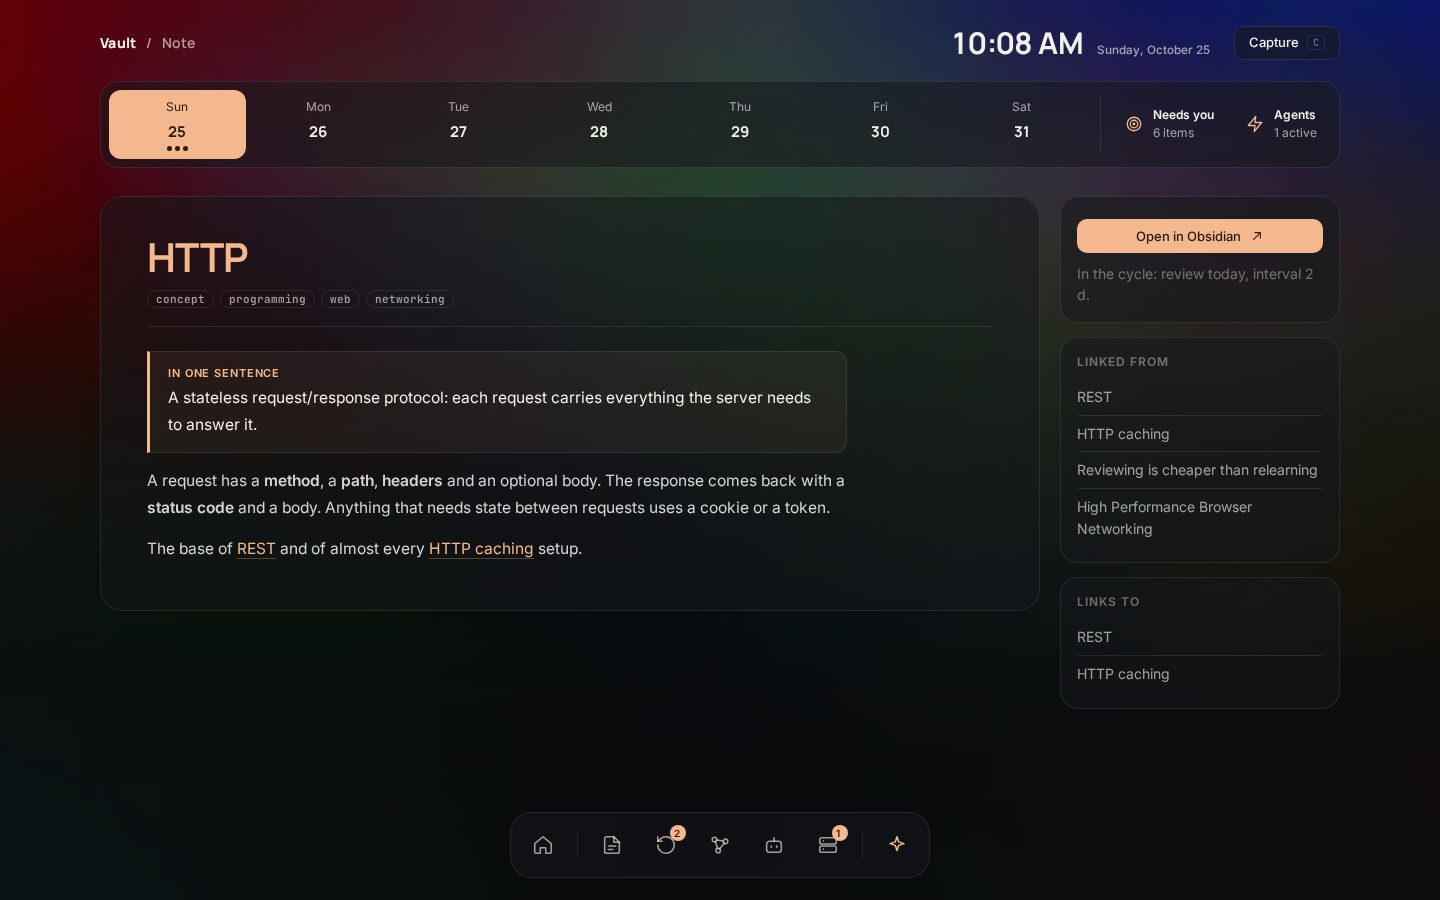
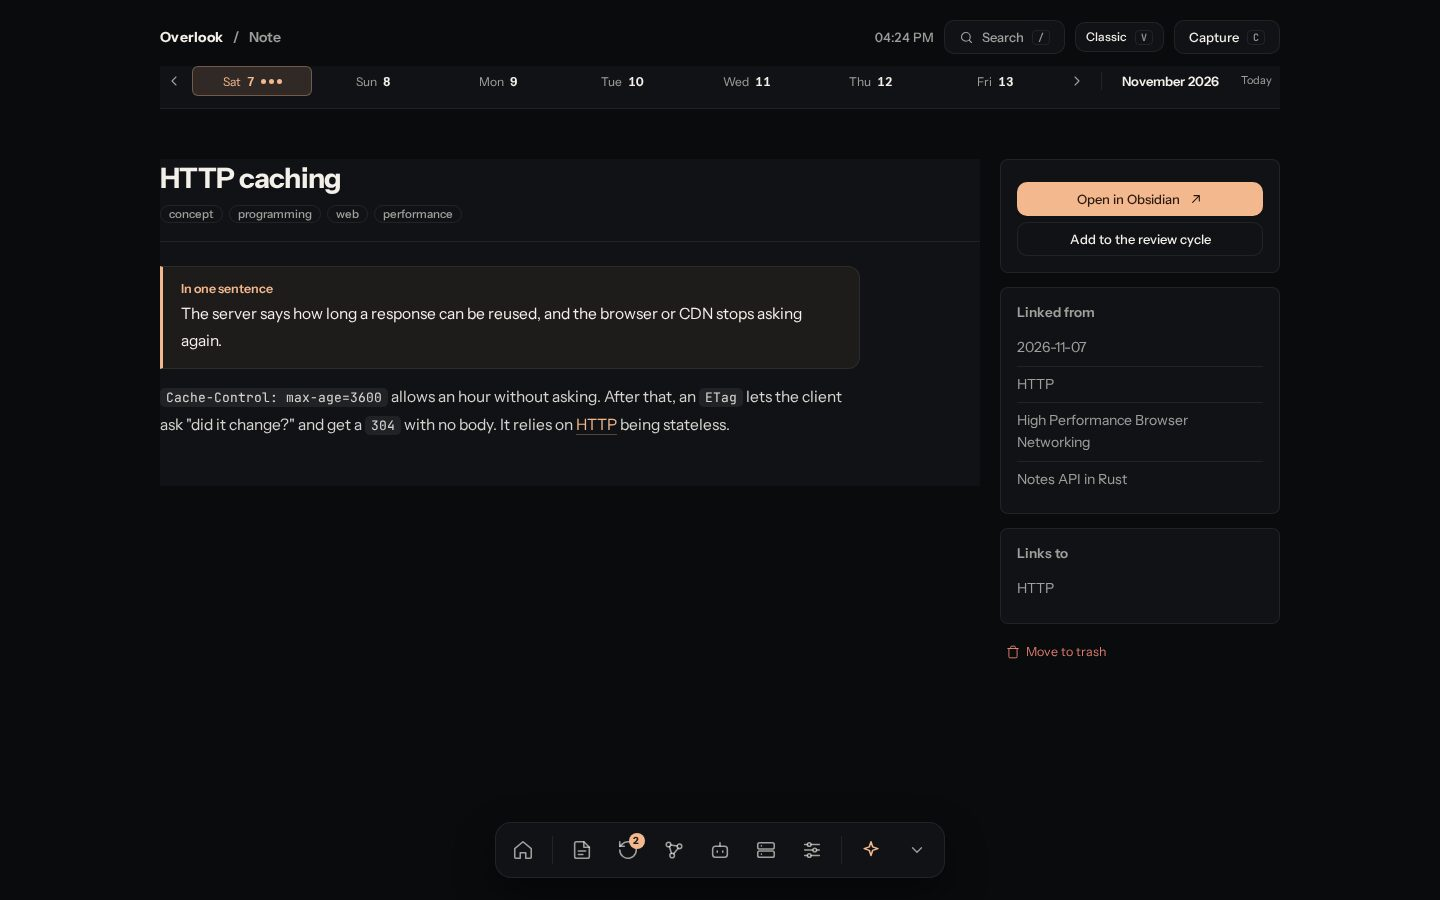
docs: a shorter README that matches today's Overlook, new screenshots (#39)
## What
- README rewritten short (247 → 139 lines): what Overlook is, quick
start, a one-line-per-feature list, the vault layout, one table of
config files, agents.json in two bullets, optional pieces in one line
each.
- New screenshots (Home, note reader, Agents canvas with two terminals)
taken on `example-vault/`; `calendar.jpg` removed (the strip shows on
the Home shot).
- The task-not-found page said tasks live in memory; they persist (last
50).

## Why
The README and screenshots predated three redesigns (#24, #31, #32) and
described a dashboard for Claude Code and AGY only.

Out-of-date facts fixed:
- Canvas terminals are xterm.js (#33), not Ghostty's terminal core.
- Tasks persist in `cache/tasks.json` (N24), not in memory.
- Routines need only an `AGENTS.md` (#36), not a Routines section.
- Quick start needs `bun install`: the terminal is served from
`node_modules`.

## How
Screenshots: a clean copy of the tracked files on port 3399, a throwaway
HOME (no real sessions in the Fleet), a neutral shell prompt, and a demo
daily note that is not committed.

## Tests
- `bun test`: 49/49.
- No console errors on Home, the note reader or the Agents page.

diff --git a/app.js b/app.js
@@ -2313,7 +2313,7 @@ async function taskPage(id) {
   const paint = async () => {
     if (route().pg !== "t" || route().arg !== id) return clearInterval(taskTimer);
     const t = await api(`/api/task?id=${encodeURIComponent(id)}`).catch(() => null);
-    if (!t) { main.innerHTML = `<div class="ph"><h1>Task not found</h1><p>Tasks live in memory and are gone after a restart.</p></div><a class="btn glass" href="#/agents">Back to Agents</a>`; return clearInterval(taskTimer); }
+    if (!t) { main.innerHTML = `<div class="ph"><h1>Task not found</h1><p>Overlook keeps the last 50 tasks; older ones are gone.</p></div><a class="btn glass" href="#/agents">Back to Agents</a>`; return clearInterval(taskTimer); }
     const qInfo = detectQuota(t);
     const qSig = qInfo ? `${qInfo.exhausted}|${qInfo.model}|${qInfo.resetsIn}` : "";
     const signature = `${t.end}|${t.events.length}|${t.events.at(-1)?.txt?.length || 0}|${qSig}`;

diff --git a/README.md b/README.md
@@ -1,62 +1,58 @@
 # Overlook
 
-A local dashboard for an Obsidian vault: today's focus, spaced review, notes, graph, quick capture,
-plus the coding agents (Claude Code, AGY) running on your machine. It reads your Markdown straight
-from disk. No database, no build step, no cloud.
+A local dashboard for an Obsidian vault, and a canvas for the coding agents you run on it. It reads your
+Markdown straight from disk: no database, no build step, no cloud.
 
 ![Home](docs/screenshots/home.jpg)
 
-| Note reader | Agents |
+| Note reader | Agents canvas |
 | --- | --- |
 | ![Note](docs/screenshots/note.jpg) | ![Agents](docs/screenshots/agents.jpg) |
 
 ## Quick start
 
-Needs [Bun](https://bun.sh) (tested on 1.4).
+Needs [Bun](https://bun.sh) 1.4+.
 
 ```sh
 git clone https://github.com/uKeps/overlook && cd overlook
 cp .env.example .env
+bun install
 bun server.ts
 ```
 
-Open http://127.0.0.1:3333. It starts on the bundled `example-vault/`, so you can look around first.
-When you like it, point `VAULT_DIR` in `.env` at your own vault and restart.
+Open http://127.0.0.1:3333. It starts on the bundled `example-vault/`. Point `VAULT_DIR` in `.env` at your own
+vault (or set it in **Settings**) and restart. Run it from the repo folder: Bun reads `.env` from there.
 
-Run it from the repo folder: Bun loads `.env` from the current directory.
+## What's in it
+
+- **Home**: today's focus from the daily note, notes due for review, the inbox, links to notes that don't exist yet.
+- **Calendar** strip: events from `Calendar.md` (`- 2026-11-03 14:00 · Exam`) and agent tasks scheduled to run
+  once or on a repeat.
+- **Notes**, a reader with backlinks, a graph, full-text search (`/`) and quick capture (`C`) into the daily note.
+- **Review**: spaced repetition from `review_on` / `interval` in the frontmatter.
+- **Agents**: give a task to any CLI or API agent and watch it run. On the canvas, every card is a window: real
+  terminals, agent TUIs (Claude Code, Antigravity), stickies and notes. Wire two terminal cards and the programs
+  in them can talk with `overlook peers`, `overlook send <card> "…"` and `overlook read <card>`. Ctrl+Alt+/
+  lists the shortcuts.
+- Themes (Tokyo Night, Dracula, Catppuccin, Rosé Pine, Gruvbox, Nord) and two interfaces, Classic and Minimal (`V`).
 
 ## Your vault
 
-By default Overlook expects this layout (the demo vault follows it; `vault.json`, below, changes it). Folders outside it are ignored, and missing
-ones just show up empty.
+The default layout, which the demo vault follows:
 
 | Path | Used for |
 | --- | --- |
-| `1 Inbox/` … `8 …/` | Notes. Any folder starting with a digit 1–8 and a space (`7 …` is skipped: drawings) |
-| `*.md` at the root | Notes too (a "start here" map, say), except agent instructions (`AGENTS.md`, `CLAUDE.md`, `GEMINI.md`, `README.md`) and `Calendar.md` |
-| `2 Daily/YYYY-MM-DD.md` | Daily note. `## Focus` feeds the Home carousel, captures land in `## Captured`; a checked item or a capture filed as `→ [[Note]]` leaves the Home |
-| `2 Daily/_Template.md` | Optional template for new daily notes |
-| `9 Agent/Log.md`, `Findings.md` | Optional agent log and gotchas (bullet lines) |
+| `1 Inbox/` … `8 …/` | Notes: folders starting with a digit 1–8 and a space (`7 …`, drawings, is skipped) |
+| `*.md` at the root | Notes too, except `AGENTS.md`, `CLAUDE.md`, `GEMINI.md`, `README.md` and `Calendar.md` |
+| `2 Daily/YYYY-MM-DD.md` | Daily note: `## Focus` feeds the Home, captures land in `## Captured` |
+| `9 Agent/Log.md`, `Findings.md` | Optional agent log and gotchas |
+| `AGENTS.md` | Optional instructions for agents; with it, the Morning and Inbox routines show up |
 
-Frontmatter Overlook reads, all optional:
+Frontmatter, all optional: `type` (concept, project, daily), `area`, `tags`, `review_on`, `interval`,
+`confidence`, `updated`. A `> [!abstract]` callout right after the title is the note's summary.
+`VAULT_LANG=pt` reads the Portuguese names instead (`2 Diário`, `## Foco de hoje`, `revisar_em`…).
 
-```yaml
-type: concept         # concept, project and daily get special treatment; anything else is a label
-area: programming     # in the graph, a hovered note and its neighbours take their area's colour
-tags: [web, api]
-review_on: 2026-01-10 # shows up in Review on/after this date
-interval: 2           # days; doubles when you remember, resets to 1 when you forget
-confidence: inferred  # a badge in the reader: measured/confirmed (green), inferred/hypothesis (amber), anything else plain
-updated: 2026-01-05  # the badge says how many days ago the note was checked
-```
-
-Vault in Portuguese? Set `VAULT_LANG=pt` in `.env` and Overlook reads `2 Diário`, `## Foco de hoje`,
-`## Capturei`, `9 Agente/Achados.md` and the `tipo` / `revisar_em` / `intervalo` / `confianca` (`medido`, `deducao`) / `atualizado` keys instead.
-
-A one-line summary comes from a `> [!abstract]` callout right after the title.
-
-Laid out some other way? A `vault.json` next to `agents.json` renames what you need, on top of the `VAULT_LANG`
-preset (restart, or save Settings, after editing it):
+Laid out another way? A `vault.json` next to `agents.json` renames what you need. Every key is optional:
 
 ```json
 {
@@ -65,155 +61,52 @@ preset (restart, or save Settings, after editing it):
   "daily": "Journal",
   "focus": "Today",
   "captured": "Captured",
-  "log": "Agent/Log.md",
-  "findings": "Agent/Findings.md",
-  "calendar": "Calendar.md",
-  "keys": { "type": "kind", "review": "review_on" }
+  "keys": { "type": "kind" }
 }
 ```
 
-`folders` lists the top-level folders read as notes (without it: `1 …` to `8 …`, minus `7 …`). Every key is optional.
+Also `log`, `findings`, `calendar` and `types`. Save Settings or restart after editing it.
 
-## Themes
+## Configuration
 
-Settings → *Theme*: Overlook (the default), Tokyo Night, Dracula, Catppuccin Mocha, Rosé Pine, Gruvbox and Nord.
-Each is a handful of base colours at the end of `app.css`; everything else is mixed from them, so a new theme is
-one more block there.
+Everything is optional, and **Settings** edits most of it. Personal files stay out of git.
 
-## Calendar
-
-The strip under the top bar is a week (or month) calendar. Click a day to see what's on it and to add:
-
-- **Events**, saved as plain lines in `Calendar.md` at the vault root (`- 2026-11-03 14:00 · Exam`, the time is
-  optional), so they show up in Obsidian and agents can read them.
-- **Agent tasks**: an agent, model, effort and prompt that run at a time, once or every day / weekday / week.
-  They live in `schedule.json` next to Overlook and run while it is on; a run missed while it was off
-  happens when it starts.
-
-Reviews due and daily notes show up as dots too. *Float* folds the strip into a small pill at the top that
-drops the calendar back in place on hover; *Pin* keeps it open. The dock at the bottom folds the same way
-(the last button on it).
-
-![Calendar](docs/screenshots/calendar.jpg)
-
-## Optional pieces
-
-Everything below is off until you set it up, and all of it (vault path, language, port, calendar/dock mode, card image sources, `agents.json` and `services.json`) can be edited from the **Settings** page in the dock or in the files directly. Skip what you don't need.
-
-### Card images: your photos and Pinterest
-
-The Home cards show images from two sources, both set up in **Images** (Services → *Manage images*):
-
-- **Your photos**: any folder on this computer, e.g. one you downloaded (`~/Pictures/my-photos`). JPG, PNG,
-  WebP and AVIF at the top level of the folder; new files show up on their own.
-- **Pinterest**: a public board as `user/board`, synced every 6 hours into `cache/` (or *Sync* now). This
-  reads the public board page, not an official API, so it may break if Pinterest changes it, and that page
-  only shows a sample of a big board each time: the collection grows with every sync. The official API
-  (below) lists the whole board.
-
-No images at all? The cards show animated ascii scenes instead, from [ascii.rest](https://ascii.rest) (MIT, served
-from `node_modules` after `bun install`, so nothing loads from their site). Settings → *Card art* picks Auto,
-Images or ASCII.
-
-In the same page, hide images you don't want, star the ones you do, and pick *Random* (the cards rotate
-through the visible images every day) or *Starred only* (the starred ones, in the order you starred them).
-On the Home, *Choose image* on a card gives that card a specific image (*Automatic* hands it back). The
-choices are saved in `pinterest.json` (`cp pinterest.example.json pinterest.json` to start from a file).
-
-**Private board (official API):** create an app at
-[developers.pinterest.com](https://developers.pinterest.com/apps/) with redirect URI
-`http://127.0.0.1:3333/auth/pinterest/callback` (with Tailscale installed it is
-`https://<your-machine>.<tailnet>.ts.net/auth/pinterest/callback` instead), put its `PINTEREST_CLIENT_ID` and
-`PINTEREST_CLIENT_SECRET` in `.env`, set `"board"` to the board name, restart and open
-http://127.0.0.1:3333/auth/pinterest. Tokens are written back to `.env` and refreshed on their own.
-
-### Services
-
-`services.json` lists anything you run locally; Overlook pings each URL and can embed it.
-See `services.example.json` for the fields.
+| File | What it holds | Start from |
+| --- | --- | --- |
+| `.env` | Vault path and language, port, API keys, `TRANSCRIBE` | `.env.example` |
+| `agents.json` | The agents you can run (default: `claude`, `agy`, `codex`, `gemini` when on the `PATH`) | `agents.example.json` |
+| `vault.json` | Your vault's layout (above) | — |
+| `services.json` | Local apps to ping and embed | `services.example.json` |
+| `pinterest.json` | Card image choices and the Pinterest board | `pinterest.example.json` |
+| `schedule.json` | Scheduled agent tasks (written by the calendar) | — |
 
 ### Agents
 
-The Agents page shows the agent processes running on your machine and lets you put one to work on the
-vault: type a task, pick an agent, watch it run. Out of the box it knows `claude`, `agy`, `codex` and
-`gemini`, and offers the ones on your `PATH`. Reading and replying to a running Claude Code or AGY session
-works too.
+Each `agents.json` entry is one of two kinds:
 
-To choose your own, `cp agents.example.json agents.json` and edit it. Two kinds of entry:
+- **CLI**: `run` is the command, with `{prompt}` where the task goes (plus `{model}`, `{effort}`, `{session}`).
+  It runs in the vault with that CLI's own permissions. Optional: `process` (to spot it running), `tui` (opens
+  it on the canvas), `open` (buttons that resume a session elsewhere), `canvas` (args that tell it about wires).
+- **API**: `api` is `anthropic` or `openai` (any OpenAI-compatible endpoint: OpenRouter, Groq, Ollama), with
+  `model`, an optional `url`, and `key`, the `.env` variable holding the key. It gets four tools limited to the
+  vault's notes (`list_notes`, `search_notes`, `read_note`, `write_note`), and `AGENTS.md` as instructions.
 
-- **CLI agent**: `run` is the command, with `{prompt}` where the task goes. It runs in the vault folder
-  with that CLI's own permissions (the example gives Claude Code `--permission-mode acceptEdits`).
-  `process` is the name used to spot it running.
-- **API agent**: `api` is `anthropic` or `openai` (any OpenAI-compatible endpoint: OpenAI, OpenRouter,
-  Groq, a local Ollama), plus `model`, an optional `url`, and `key`, the name of the `.env` variable
-  holding the API key. It gets four tools, `list_notes`, `search_notes`, `read_note` and `write_note`,
-  limited to Markdown notes inside the vault. If the vault has an `AGENTS.md`, it becomes the agent's
-  instructions. The Anthropic path needs `bun install` once, offers Opus 5.5, Sonnet 5.5 and Haiku 5.5
-  at effort `high` by default, and turns on server-side refusal fallback.
+Any entry can list `models` and `efforts`; the task form then offers them. A request that names no agent goes to
+the first one in the file that can run here. `agents.example.json` has one of each.
 
-Any entry can list `models` and `efforts` (plus a default `effort`). The task form then shows a model
-and an effort picker for that agent: API agents send the choice to the provider, and CLI agents get it
-through `{model}` and `{effort}` in `run`, e.g. `"--model", "{model}"`. Only listed values are accepted.
-A model can be a plain id or `{"id": "gemini-4-argon", "label": "Gemini 4 Argon", "efforts": ["low", "high"]}`
-when it needs a display name or its own effort levels (for a CLI that bakes the effort into the model id,
-use `"--model", "{model}-{effort}"`).
+### Optional pieces
 
-**Open in…** Each entry can also list `open` commands, shown as buttons on a session's page and on a task's
-page: `{session}` is the session id, `{cwd}` its folder, and a first token of `{terminal}` means your own
-terminal (`xdg-terminal-exec`, or `$TERMINAL -e`). The built-in ones resume a Claude Code session with
-`claude --resume`, an AGY conversation with `agy --conversation`, and open the folder in the Antigravity
-app. Claude Code tasks get a fresh `--session-id`, so a finished task can be picked up in the terminal.
-Any other app works the same way, as long as it can be launched with a command.
-
-**Canvas.** On the Agents page every card is a window. Terminal cards are real terminals (rendered with
-Ghostty's own terminal core, in your Ghostty theme), and an agent with a `tui` command opens there as its own
-TUI: `{prompt}`, `{session}`, `{model}` and `{effort}` work as in `run`, and a `{session}` lets the card
-resume the conversation after a restart. Ctrl+Alt+/ lists the canvas shortcuts.
-
-**Agents talking to each other.** Draw a wire between two terminal cards and the programs in them can talk,
-both ways, with the `overlook` command Overlook puts on every canvas terminal's `PATH`:
-
-```sh
-overlook peers                  # the cards wired to this one
-overlook send <card> "message"  # types the message into that card as a prompt
-overlook read <card>            # what that card's screen shows
-```
-
-A message lands as a prompt that says who sent it and how to answer, so a Claude Code card can delegate to an
-Antigravity card or ask another Claude and get the reply back. An agent's `canvas` args tell it about the
-command when it starts (the example gives Claude Code `--append-system-prompt`); typing in a card's message line
-says it too. No wire, no talking; at most 6 messages a minute from one card to another.
-
-Each agent can have its own picture: Settings → *Agent icons* (PNG, JPEG, WebP or GIF under 2 MB, squared to
-256 px when ImageMagick is installed, kept in `avatars/`).
-
-Tasks are kept in memory (the last 50) and can be stopped from their page.
-The Morning and Inbox routines show up when the vault has an `AGENTS.md` with a Routines section.
-
-### Voice memos
-
-Share a recording from the phone and it becomes a note in `1 Inbox/` (`Voice memo - <name>.md`), which is then
-the prompt for an agent: it files the memo following your `AGENTS.md`. Transcription is yours to pick: set
-`TRANSCRIBE` in `.env` to a command that reads audio on stdin and prints the text (run through `sh`; a non-zero
-exit is a failure and its last stderr line the reason), e.g. a small script that saves stdin to a temp file and
-runs whisper on it. Nothing leaves the machine unless that command sends it.
-
-`POST /api/voice` with JSON `{"audio": "<base64>", "name": "Walk.m4a"}` (plus `agent`, `model`, `effort`;
-the agent defaults to the first one in `agents.json` that can run) answers at once; the run shows up in Tasks. A failed transcription lands as a
-capture in today's note; a failed agent leaves the note in the inbox. On iOS, a Shortcut shown in the share sheet
-does it in two actions: *Encode with Base64* the input (line breaks: none), then *Get Contents of URL* with method
-POST, header `Content-Type: application/json` and a JSON body with `audio` and `name`, at the Tailscale address
-below.
-
-### Phone access (Tailscale)
-
-The server only listens on 127.0.0.1. With [Tailscale](https://tailscale.com) installed, it also
-accepts requests addressed to your machine's tailnet name, so `tailscale serve --bg 3333` makes it
-reachable from your phone over HTTPS.
-
-### Image resizing
-
-With ImageMagick (`magick`) installed, images are downscaled and cached; without it, originals are served.
+- **Card images**: a folder of your photos or a public Pinterest board (`user/board`), set in Services →
+  *Manage images*. With neither, the cards show animated ascii scenes from [ascii.rest](https://ascii.rest).
+  A private board needs a [Pinterest app](https://developers.pinterest.com/apps/) with redirect URI
+  `http://127.0.0.1:3333/auth/pinterest/callback`: put its `PINTEREST_CLIENT_ID` / `PINTEREST_CLIENT_SECRET` in
+  `.env` and open `/auth/pinterest`.
+- **Voice memos**: set `TRANSCRIBE` to a command that reads audio on stdin and prints the text (e.g. a whisper
+  script). `POST /api/voice` with `{"audio": "<base64>", "name": "Walk.m4a"}` turns the recording into an inbox
+  note and hands it to an agent to file. A failure lands in today's note.
+- **Phone access**: the server only listens on 127.0.0.1, but accepts your Tailscale machine name, so
+  `tailscale serve --bg 3333` opens it to your devices over HTTPS.
+- **ImageMagick** (`magick`) downscales and caches images; without it, originals are served.
 
 ## Run on login (Linux, systemd)
 
@@ -236,11 +129,10 @@ WantedBy=default.target
 
 ## Contributing
 
-`main` only changes through pull requests. Branch, push, open a PR whose title is a
-[Conventional Commit](https://www.conventionalcommits.org) (`feat: …`, `fix(review): …`), and it is
-squash-merged once CI is green. CI scans the history for secrets and runs `bun test`, a smoke test
-that boots the server on `example-vault/`, hits every endpoint and runs agents against fake providers;
-run `bun install && bun test` locally before pushing.
+`main` changes through pull requests whose title is a [Conventional Commit](https://www.conventionalcommits.org)
+(`feat: …`, `fix(review): …`), squash-merged once CI is green. CI scans the history for secrets and runs
+`bun test`, which boots the server on `example-vault/` and runs agents against fake providers. Run
+`bun install && bun test` before pushing.
 
 ## License
 
